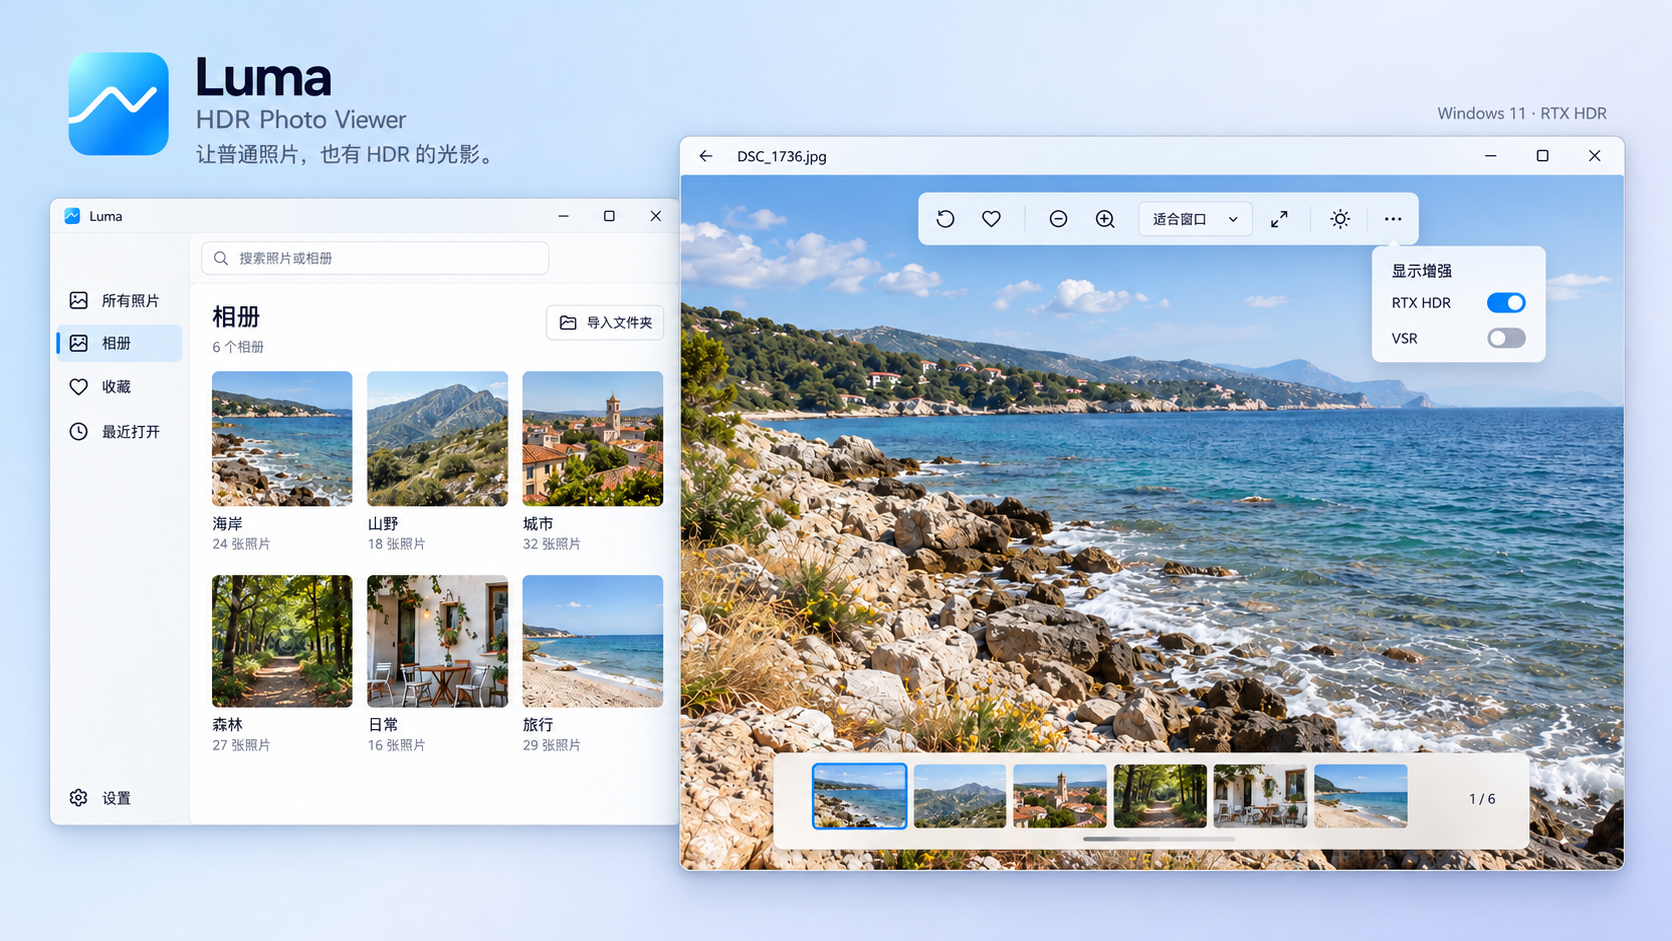
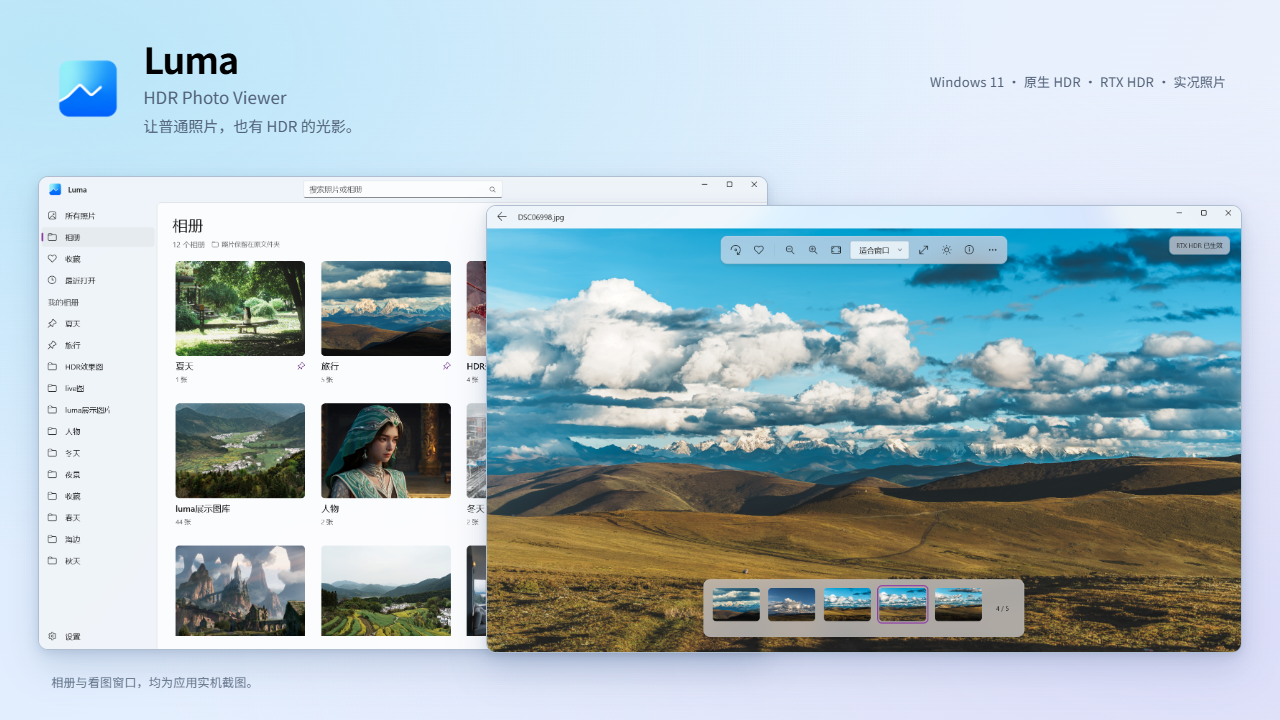
docs: refresh real screenshot showcase with RTX badge
Compose the selected real album and SDR viewer screenshots, adding the captured RTX HDR display badge without changing photo colours. Export losslessly and retain this draft locally pending maintainer review.

diff --git a/docs/TODO.md b/docs/TODO.md
@@ -6,11 +6,13 @@
 
 - [x] 主页 SDR 单图复用真实捕获的 RTX HDR 标签覆盖层，HDR 分屏仍保留左 SDR / 右 RTX HDR 标签并随分界线裁剪。1280 / 390 px 排版、Home / End 切换、图层对齐、坏图 / 溢出 / 控制台检查通过；既有 AVIF / WebP 图像 hash 不变，应用状态与二进制未修改，详见验证记录。
 
+- [x] README 标签草稿继续使用 SDR 照片颜色，仅在 HTML 的预览窗口上覆盖已有真实 RTX HDR 标签。1280×720 PNG → 无损 WebP 解码像素一致，679,712 字节；相对上一稿只在 (1167,233)–(1232,257) 标签区域改变 1,529 个像素。生成源与对照报告留在 `artifacts/readme-real-20261019/`，不修改应用。
+
 ## 宣传稿与 README 实机图（2026-10-19）
 
 - [x] 酷安 / 小黑盒通用图文稿已写入 `docs/marketing/launch-article.md`：从 HDR 视频暂停欣赏、重看自己拍的雪山 / 旅行照片的动机展开，说明普通 JPG 的 RTX 增强、原生 HDR、实况及真实使用条件。配图复用已公开主页的两张实机图，合计 250,230 字节，没有把大型原始截图加入历史。稿件已核对现有功能、0.1.31 / 58.42 MiB 数据和图片链接；未向任何社交平台代发。
 - [x] README 实机展示草稿制作完成，保留浅蓝背景与双窗口叠放，窗口内容来自维护者提供的相册与雪山预览截图。浏览器排版导出 1280×720 无损 PNG，再编码为无损 WebP；解码像素一致，679,550 字节，比原 1,556,588 字节小 56.34%，原截图未改。HTML / 输入校验 / PNG / 压缩报告保留在 `artifacts/readme-real-20261019/`。
-- [ ] README 图替换仅提交在本地 `codex/readme-real-screenshots`，提交 `dece052`，**等待维护者验收，禁止自动推送或创建会公开素材的 PR**。已提供图片预览并挂起确认；主分支继续使用已公开旧图，发布与文章提交不包含这份新图。维护者明确同意后再合入并推送。
+- [ ] README 新图及标签调整仅在本地 `codex/promotional-hdr-badges`，原草稿 `codex/readme-real-screenshots` / `dece052` 保留作恢复点，**等待维护者验收，禁止自动推送或创建会公开素材的 PR**。主页标签修正已单独推送，主分支 README 继续使用已公开旧图；维护者明确同意后再合入新图并推送。
 
 ## 官网部署与 0.1.31 发行（2026-10-19）
 

diff --git a/docs/VERIFICATION.md b/docs/VERIFICATION.md
@@ -1,5 +1,9 @@
 # Luma 本机验证记录
 
+## README 展示标签草稿（2026-10-19）
+
[1 lines of base64/hex data omitted]
+
 ## 主页展示标签（2026-10-19）
 
 主页使用既有透明无损 `hero-hdr-badge.webp`，在 HTML 中常驻加载；SDR 单图覆盖 RTX HDR 展示标签。浏览器支持 HDR 对比时移入 `.cmp` 并与 HDR 图共用裁剪，左侧露出底图的 SDR 标签，右侧为 RTX HDR。1280 px 对比的 Home / End 两端已目视核对，390 px SDR 单图与 HDR 对比的标签 / 画面矩形一致、无横向溢出 / 坏图，页面无错误 / 警告。SDR 媒体条件使用忽略目录的独立夹具模拟，HDR 分屏使用浏览器报告的 HDR 能力；这不是新的实屏亮度 / GPU HDR 验证。两个 AVIF、WebP 底图和既有标签的 SHA256 与修改前相同，没有照片色调调整或重新压缩；SDR 访问新增一次约 11 KiB 标签请求，HDR 对比复用同一元素。截图、输入 hash 和布局记录位于 `artifacts/readme-real-20261019/`。不引入应用开发开关、版本变化或本机重装。

diff --git a/README.md b/README.md
@@ -2,7 +2,7 @@
 
 **如果你有一块好 HDR 屏幕，别只用它看电影。也用它，重新看看自己的照片。**
 
-![Luma 产品展示：浅色相册与照片预览、悬浮毛玻璃、独立 RTX HDR 与 VSR 控制](docs/images/luma-product-showcase.webp)
+![Luma 实机界面：浅色相册与雪山照片预览，使用真实截图并叠加 RTX HDR 展示标签](docs/images/luma-product-showcase.webp)
 
 Luma 是免费、开源的 Windows 原生照片查看器，支持**原生 HDR/Live 照片**，也能通过 **NVIDIA RTX Video HDR** 为普通 JPG 带来更丰富的光影，甚至使用HDR预览live照片。
 
